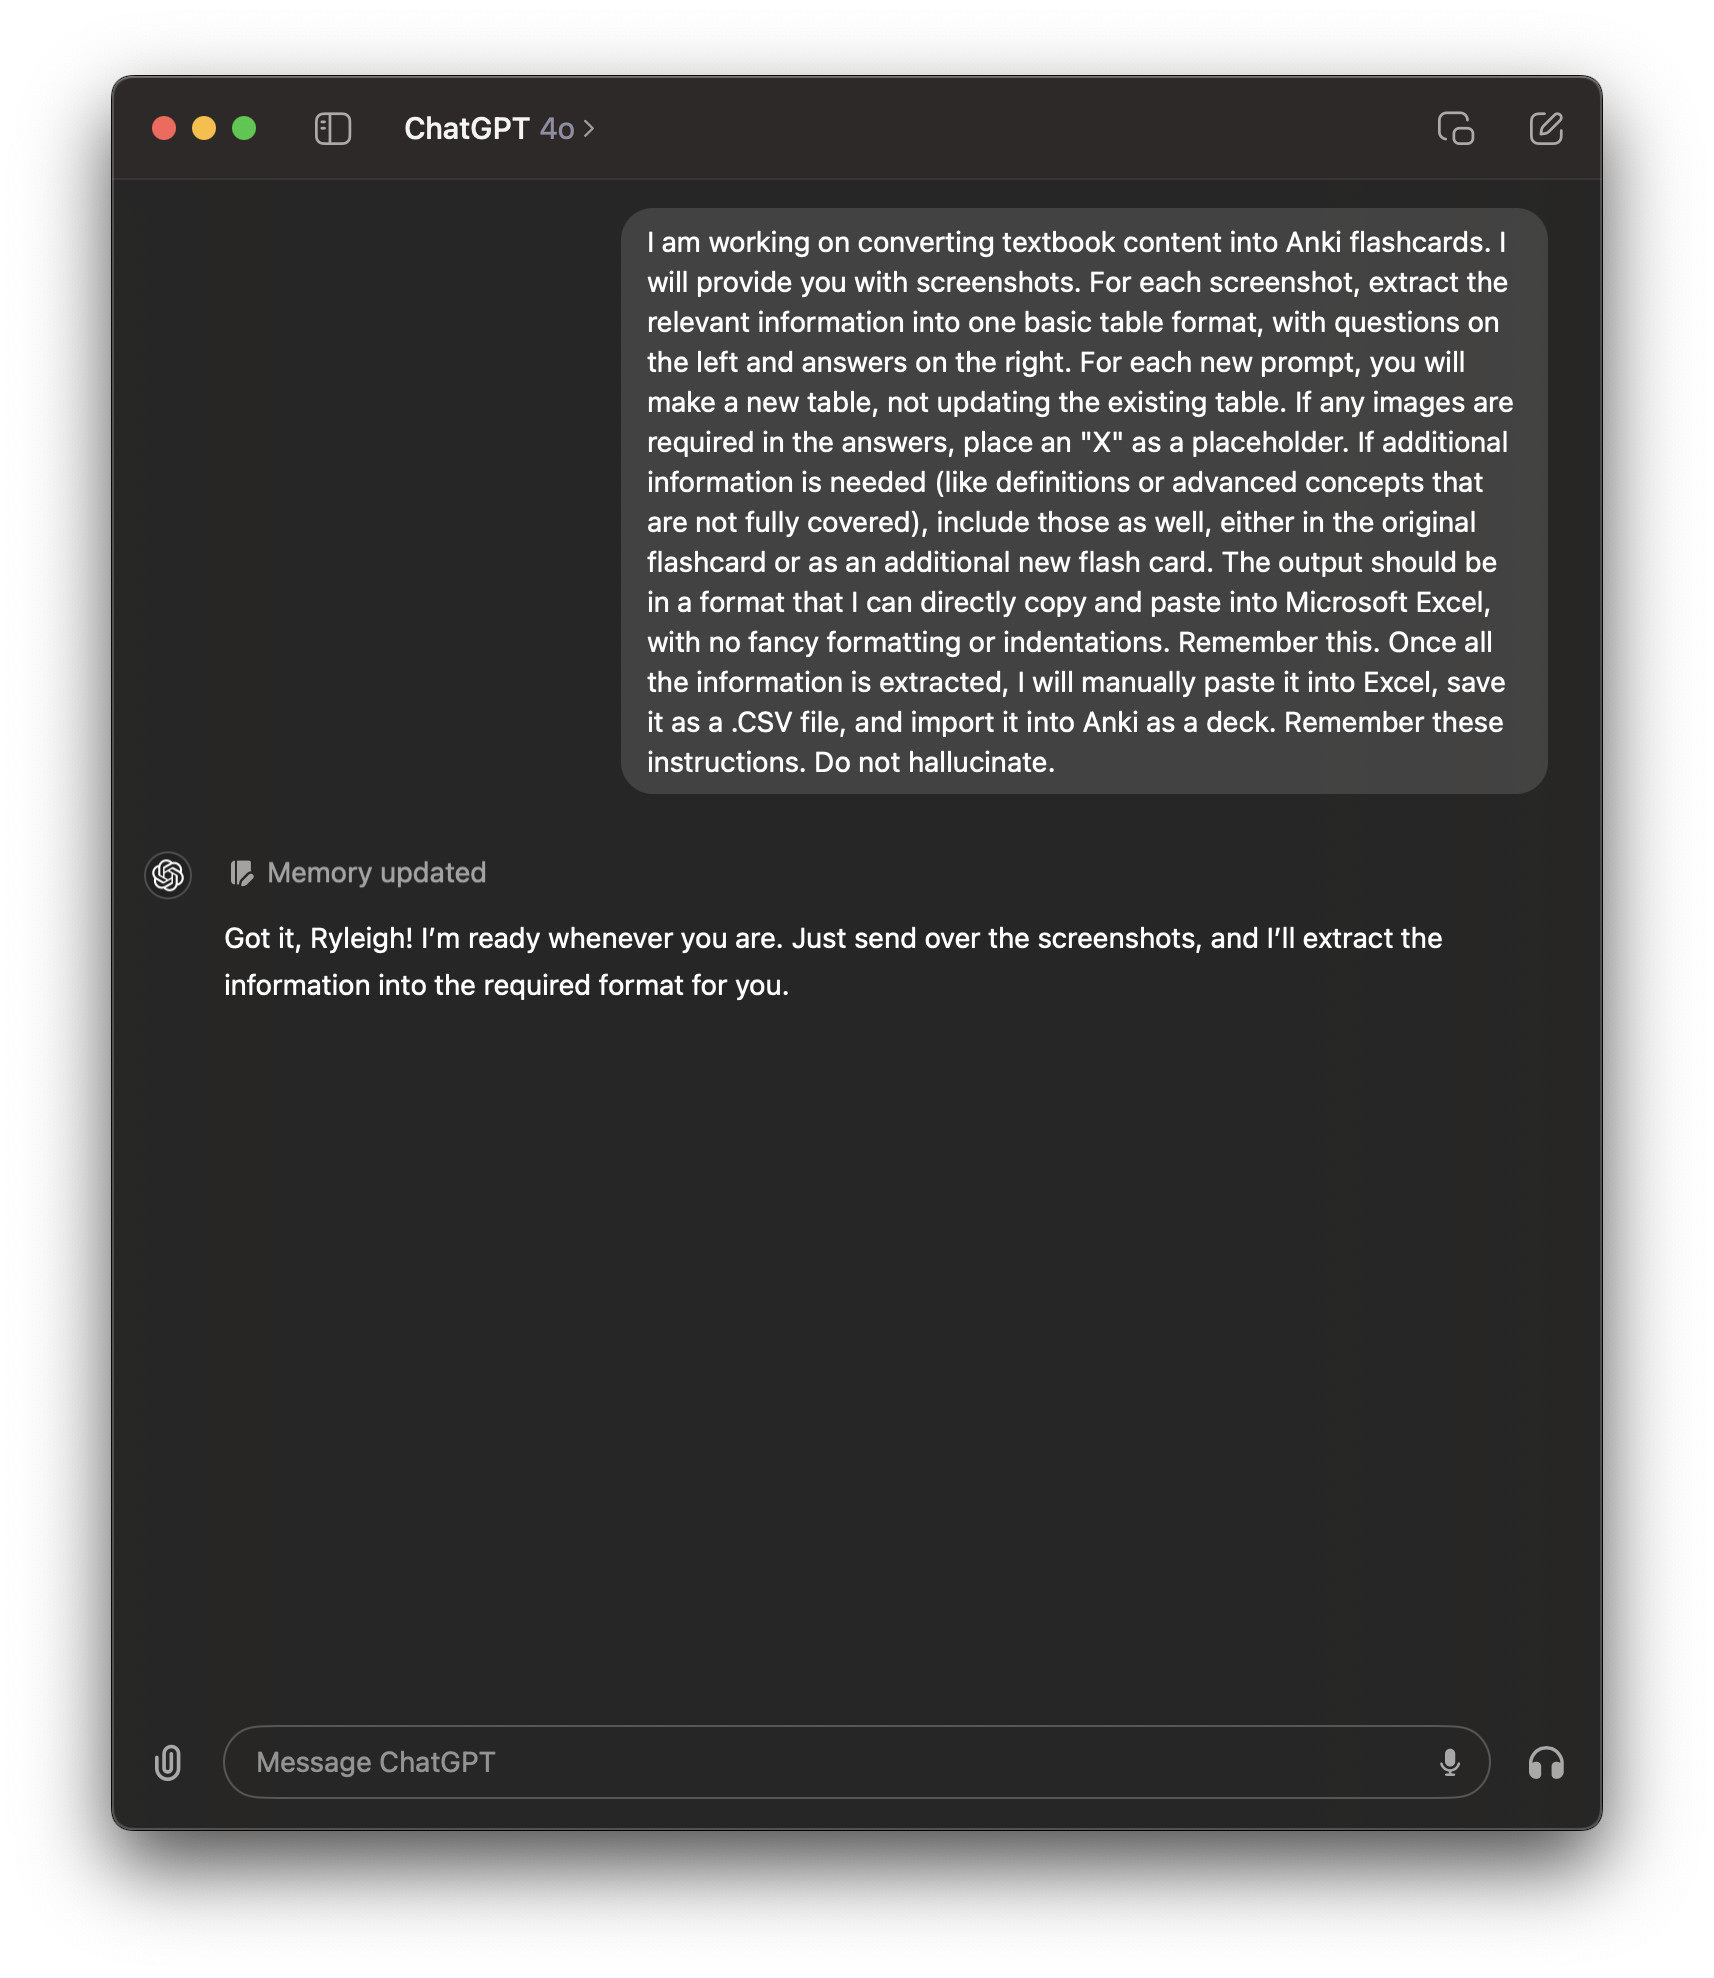
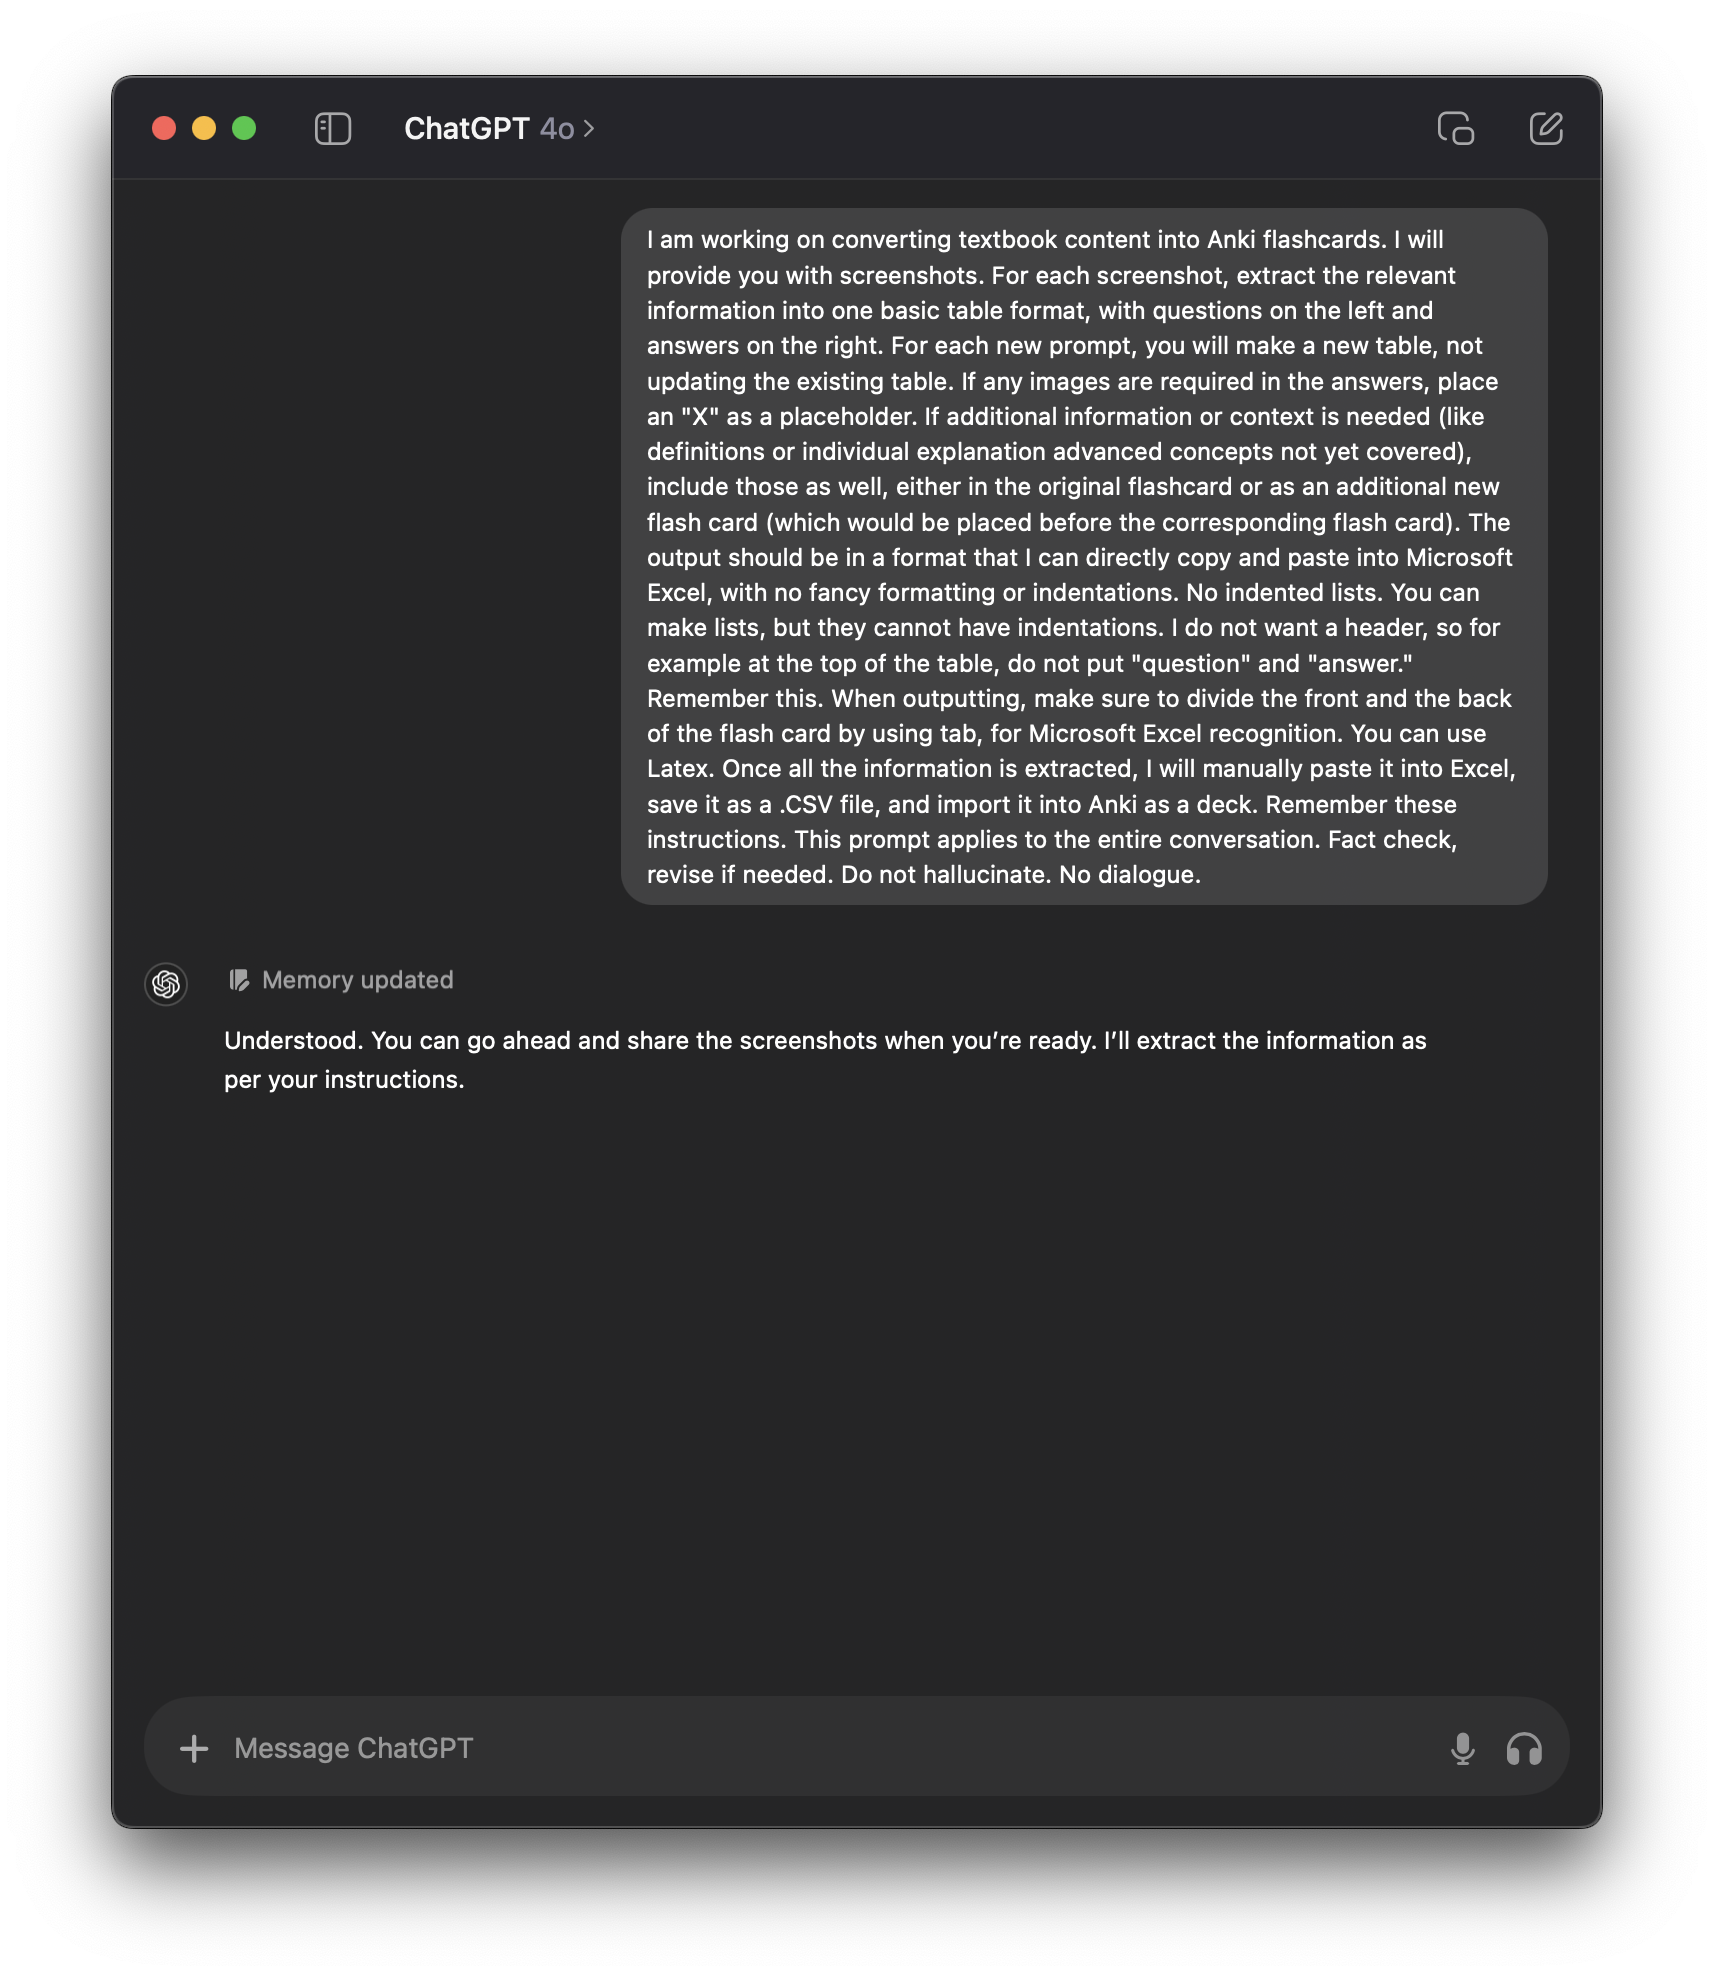
1.1.4

diff --git a/README.md b/README.md
@@ -25,7 +25,7 @@ This has personally saved me hundreds of hours of valuable study time! And helpe
 
 ### Step 1: Prime ChatGPT
 - Use the following Advanced Prompt to tell ChatGPT how to extract information. You can edit this to your unique needs. 
-- I have designed this prompt specifically to handle all of the common errors and possible problems unique to ChatGPT.
+- I have designed this prompt specifically to handle all of the common errors and possible problems unique to ChatGPT. Updated for the early October 2024 ChatGPT 4o build.
 
 #### Advanced Prompt
 ```
